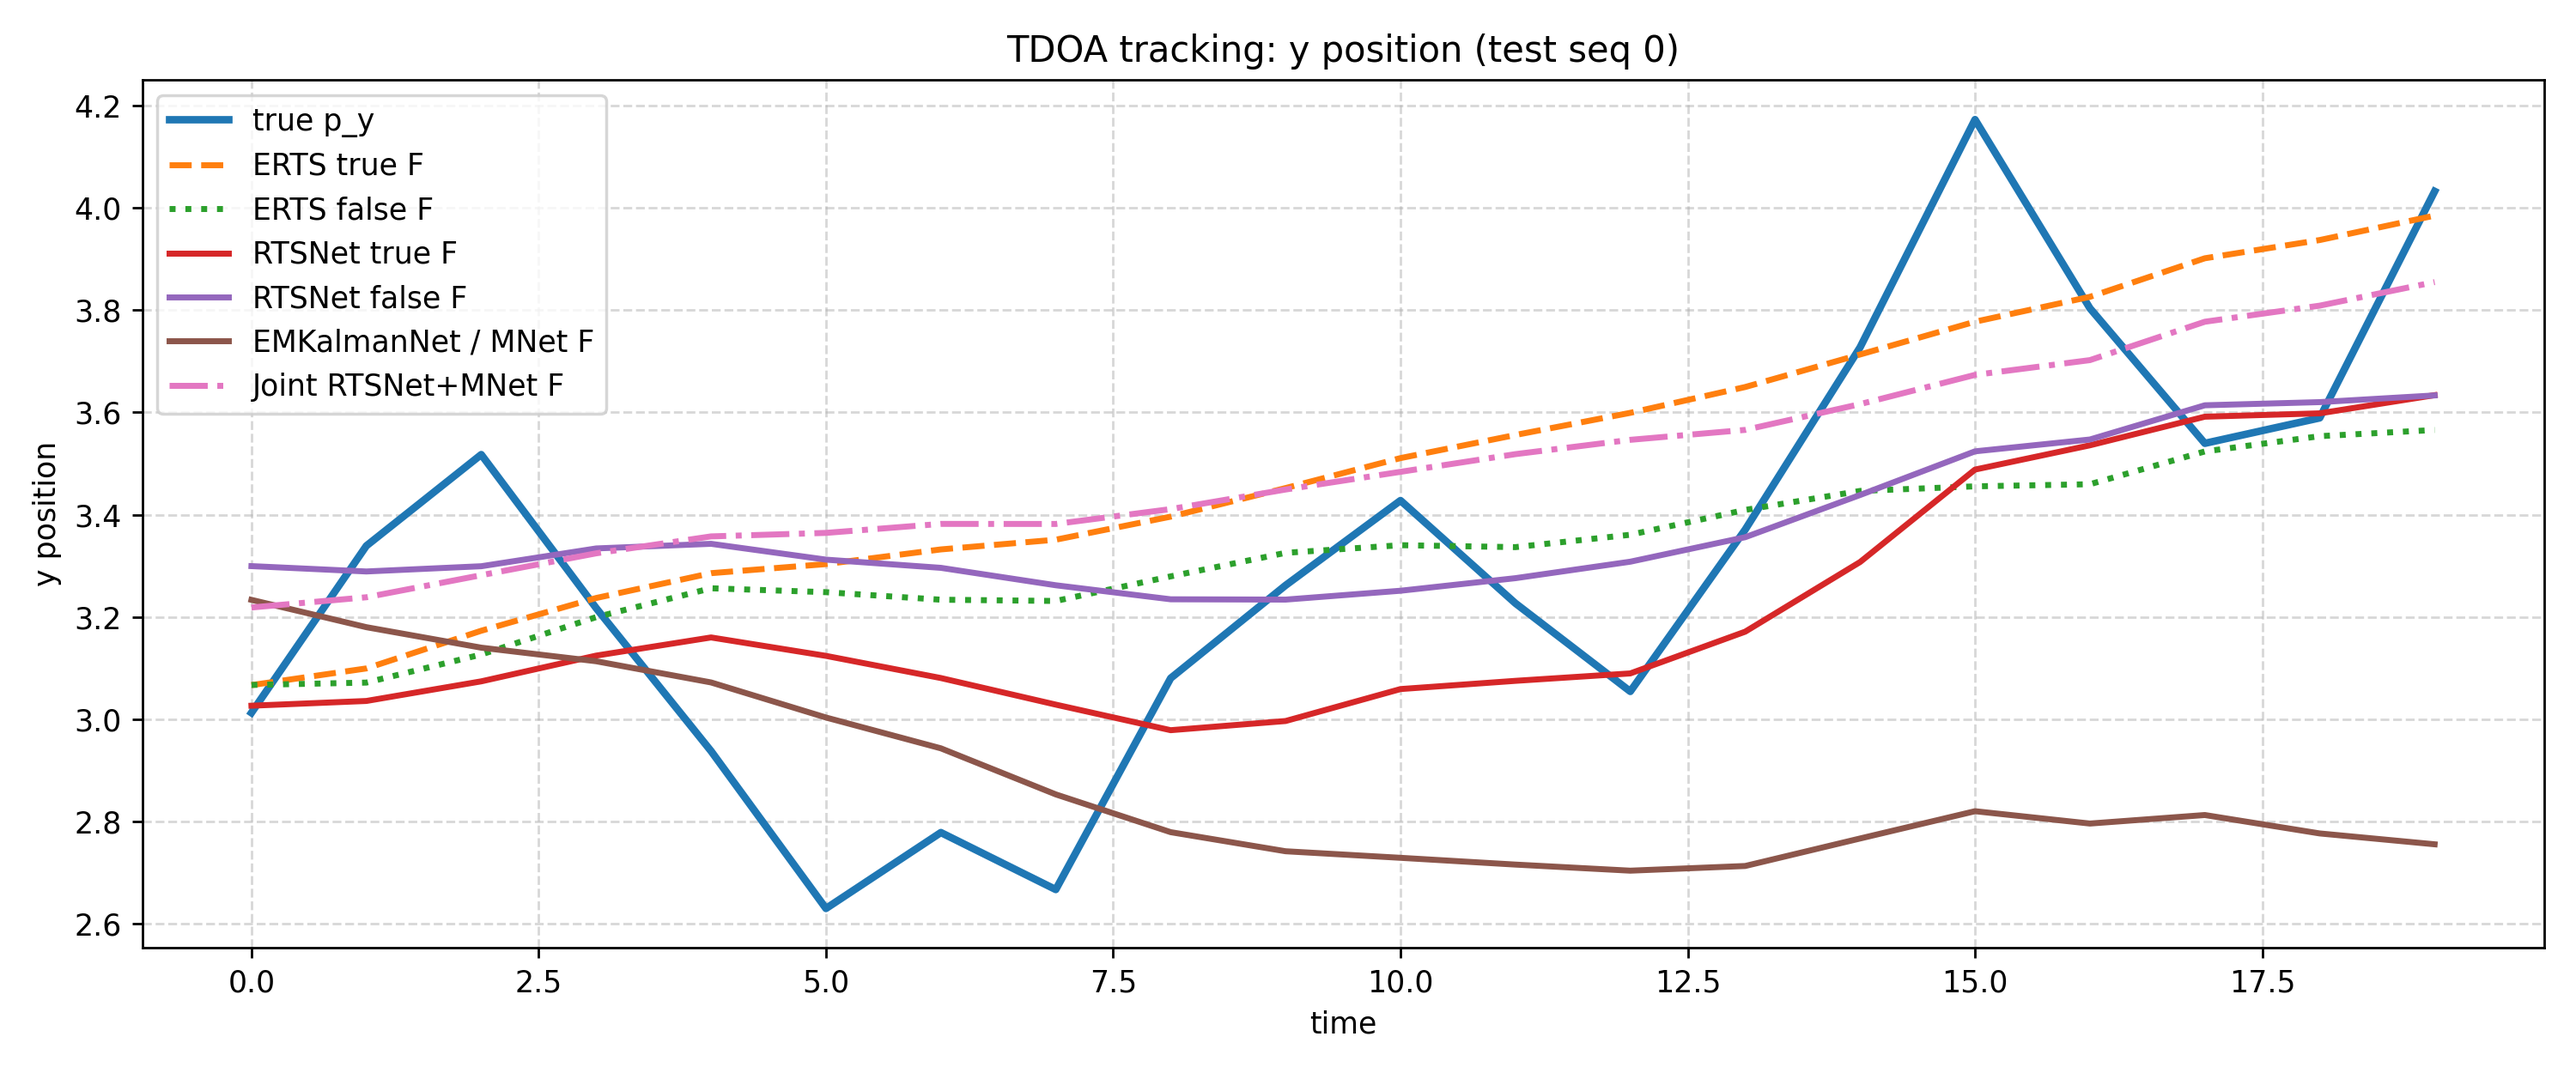
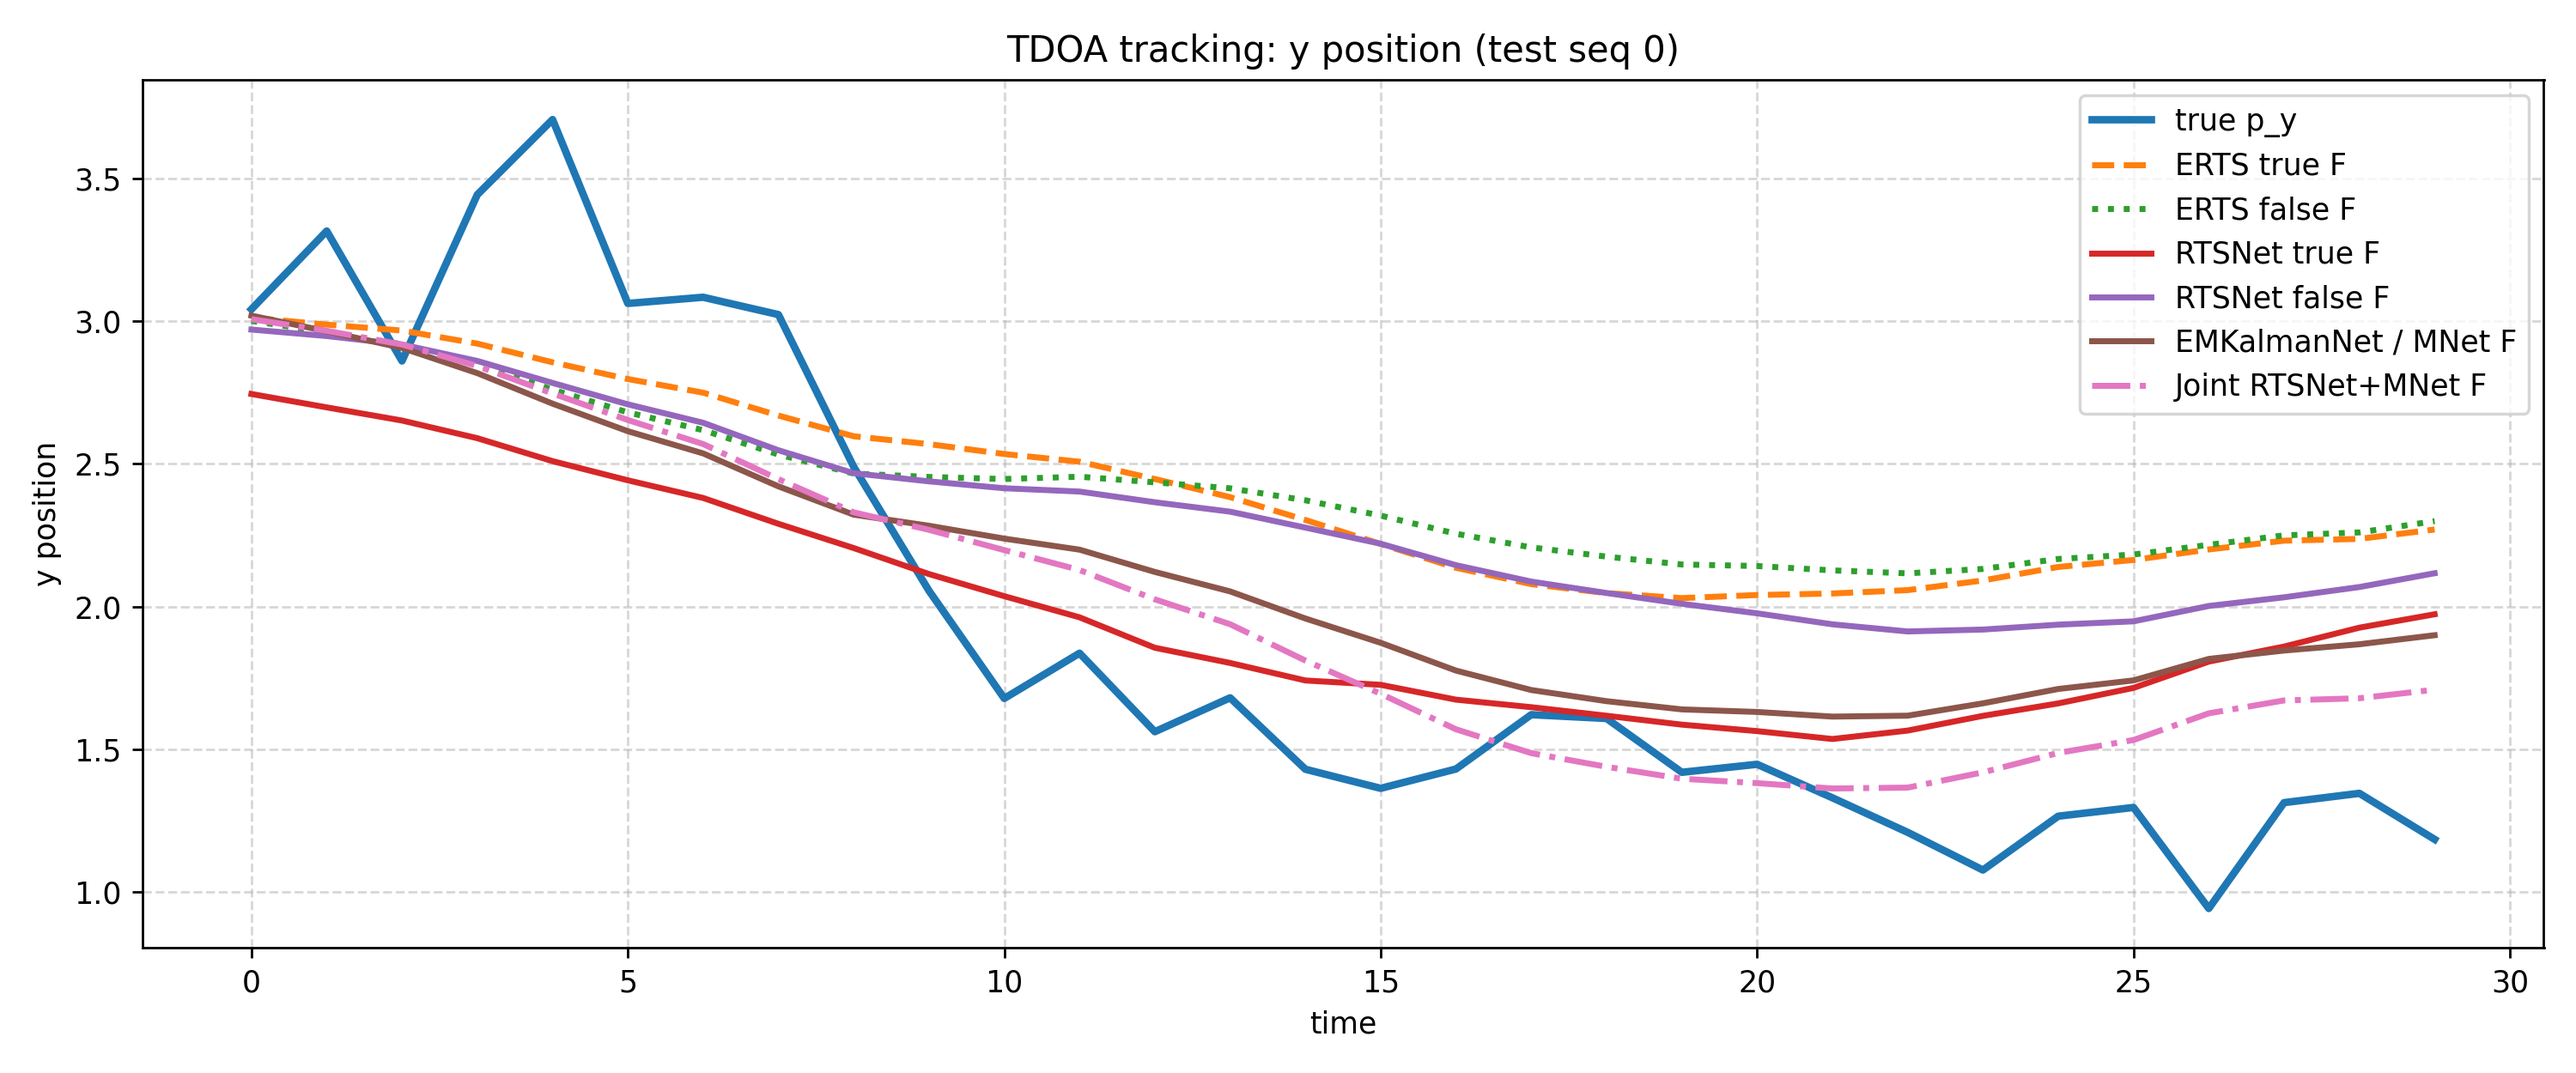
t

diff --git a/microphons_training_1_dataset.py b/microphons_training_1_dataset.py
@@ -67,7 +67,7 @@ r2 = 10   # measurement noise variance (R = r2 * I_n)
 # theta_true:  F per group drawn Uniform(-theta_true/2, +theta_true/2)
 # theta_false: false F = true_theta + Uniform(-theta_false/2, +theta_false/2)
 theta_true  = 0.4   # [rad]
-theta_false = 0.4   # [rad]
+theta_false = 2   # [rad]
 
 Q     = (q2 * Q_structure).to(device) 
 R     = (r2 * R_structure).to(device)
@@ -77,11 +77,11 @@ m2x_0 = m2x_0.to(device)
 ### paths
 save_dir = "RTSNet/tdoa_2d/10/"
 os.makedirs(save_dir, exist_ok=True)
-destination_path_rtsnet_true  = save_dir + "RTSNet_trueF21.pt"
-destination_path_rtsnet_false = save_dir + "RTSNet_falseF2.pt"
-destination_path_M_F = save_dir + "M_step_F_net2.pt"
-destination_path_rtsnet_jointF = save_dir + "RTSNet_falseF_jointF2.pt"
-destination_path_M_F_joint = save_dir + "M_step_F_net_jointF2.pt"
+destination_path_rtsnet_true  = save_dir + "RTSNet_true.pt"
+destination_path_rtsnet_false = save_dir + "RTSNet_false.pt"
+destination_path_M_F = save_dir + "M_step_F_net.pt"
+destination_path_rtsnet_jointF = save_dir + "RTSNet_falseF_joint_arge_f_loss.pt"
+destination_path_M_F_joint = save_dir + "M_step_F_net_joint_large_f_loss.pt"
 
 print("=" * 70)
 print("2D TDOA RTSNet experiment — true-F and false-F models")
@@ -178,25 +178,31 @@ sys_model_false.F_valid_TRUE = F_cv_true
 sys_model_false.F_test_TRUE  = F_test_true
 
 ########################################
-### Analytic baselines (one sequence) ###
+### Analytic baselines (all test seqs) ###
 ########################################
-print("\nRunning analytic baselines on test sequence 0 ...")
+print("\nRunning analytic baselines averaged over all test sequences ...")
+mse_erts_true_sum  = 0.0
+mse_erts_false_sum = 0.0
+for i in range(args.N_T):
+    g        = i // 10
+    states_i = test_target[i]
+    obs_i    = test_input[i]
+    x_et, *_ = run_ekf_erts(obs_i, make_get_F_from_matrix(F_test_true[g]),  Q_in=Q, R_in=R)
+    x_ef, *_ = run_ekf_erts(obs_i, make_get_F_from_matrix(F_test_false[g]), Q_in=Q, R_in=R)
+    mse_erts_true_sum  += loss_fn(x_et, states_i).item()
+    mse_erts_false_sum += loss_fn(x_ef, states_i).item()
+
+mse_erts_true  = mse_erts_true_sum  / args.N_T
+mse_erts_false = mse_erts_false_sum / args.N_T
+
+print(f"  ERTS TRUE-F  MSE (avg): {10 * math.log10(mse_erts_true):.2f} dB")
+print(f"  ERTS FALSE-F MSE (avg): {10 * math.log10(mse_erts_false):.2f} dB")
+
+# keep seq-0 outputs for the plot
 states = test_target[0]
 obs    = test_input[0]
-
-# F_test_true[0]  is the F that generated sequences 0-9
-# F_test_false[0] is the corresponding wrong F for that group
-get_F_true_fn  = make_get_F_from_matrix(F_test_true[0])
-get_F_false_fn = make_get_F_from_matrix(F_test_false[0])
-
-x_erts_true,  *_ = run_ekf_erts(obs, get_F_true_fn,  Q_in=Q, R_in=R)
-x_erts_false, *_ = run_ekf_erts(obs, get_F_false_fn, Q_in=Q, R_in=R)
-
-mse_erts_true  = loss_fn(x_erts_true,  states).item()
-mse_erts_false = loss_fn(x_erts_false, states).item()
-
-print(f"  ERTS TRUE-F  MSE: {10 * math.log10(mse_erts_true):.2f} dB")
-print(f"  ERTS FALSE-F MSE: {10 * math.log10(mse_erts_false):.2f} dB")
+x_erts_true,  *_ = run_ekf_erts(obs, make_get_F_from_matrix(F_test_true[0]),  Q_in=Q, R_in=R)
+x_erts_false, *_ = run_ekf_erts(obs, make_get_F_from_matrix(F_test_false[0]), Q_in=Q, R_in=R)
 
 #######################
 ### RTSNet true-F   ###
@@ -213,12 +219,12 @@ RTSNet_Pipeline_true.setTrainingParams(args)
 print("Number of trainable parameters for RTSNet:",
       sum(p.numel() for p in RTSNet_model_true.parameters() if p.requires_grad))
 
-[MSE_cv_linear_epoch, MSE_cv_dB_epoch,
- MSE_train_linear_epoch, MSE_train_dB_epoch] = RTSNet_Pipeline_true.NNTrain(
-    sys_model_true, cv_input, cv_target, train_input, train_target,
-    destination_path_rtsnet_true,
-    generate_f=True,
-)
+# [MSE_cv_linear_epoch, MSE_cv_dB_epoch,
+#  MSE_train_linear_epoch, MSE_train_dB_epoch] = RTSNet_Pipeline_true.NNTrain(
+#     sys_model_true, cv_input, cv_target, train_input, train_target,
+#     destination_path_rtsnet_true,
+#     generate_f=True,
+# )
 
 [MSE_test_arr_true, MSE_test_avg_true, MSE_test_dB_avg_true,
  rtsnet_out_true, RunTime_true] = RTSNet_Pipeline_true.NNTest(
@@ -241,12 +247,12 @@ RTSNet_Pipeline_false.setTrainingParams(args)
 print("Number of trainable parameters for RTSNet:",
       sum(p.numel() for p in RTSNet_model_false.parameters() if p.requires_grad))
 
-[MSE_cv_linear_epoch, MSE_cv_dB_epoch,
- MSE_train_linear_epoch, MSE_train_dB_epoch] = RTSNet_Pipeline_false.NNTrain(
-    sys_model_false, cv_input, cv_target, train_input, train_target,
-    destination_path_rtsnet_false,load_model_path = destination_path_rtsnet_true,
-    generate_f=True,
-)
+# [MSE_cv_linear_epoch, MSE_cv_dB_epoch,
+#  MSE_train_linear_epoch, MSE_train_dB_epoch] = RTSNet_Pipeline_false.NNTrain(
+#     sys_model_false, cv_input, cv_target, train_input, train_target,
+#     destination_path_rtsnet_false,load_model_path = destination_path_rtsnet_true,
+#     generate_f=True,
+# )
 
 
 
@@ -261,22 +267,30 @@ print("Number of trainable parameters for RTSNet:",
 #############################
 print("\nEMKalmanNet: training MNet to update F")
 
+# DELETE
+diff = sys_model_false.F_train[0] - sys_model_false.F_train_TRUE[0]
+print("F_false[0]:\n", sys_model_false.F_train[0])
+print("F_true[0]:\n",  sys_model_false.F_train_TRUE[0])
+print("||F_false - F_true||^2 =", diff.pow(2).mean().item(),
+      f"({10*math.log10(max(diff.pow(2).mean().item(), 1e-10)):.2f} dB)")
+# DELETE
+
 num_em_iters = 2
 
-RTSNet_Pipeline_false.train_F_mstep_net(
-    sys_model_false,
-    cv_input,
-    cv_target,
-    train_input,
-    train_target,
-    destination_path_M=destination_path_M_F,
-    destination_path_RTS=destination_path_rtsnet_false,
-    load_destination_path_M=None,
-    num_em_iters=num_em_iters,
-    alpha=(0.3, 1.0, 0.85),
-    lambda_F=1e-3,
-    generate_f=True,
-)
+# RTSNet_Pipeline_false.train_F_mstep_net(
+#     sys_model_false,
+#     cv_input,
+#     cv_target,
+#     train_input,
+#     train_target,
+#     destination_path_M=destination_path_M_F,
+#     destination_path_RTS=destination_path_rtsnet_false,
+#     load_destination_path_M=None,
+#     num_em_iters=num_em_iters,
+#     alpha=(0.3, 1.0, 0.85),
+#     lambda_F=1e-3,
+#     generate_f=True,
+# )
 
 [MSE_test_arr_mnet, MSE_test_avg_mnet, MSE_test_dB_avg_mnet,
  rtsnet_out_mnet, RunTime_mnet] = RTSNet_Pipeline_false.test_F_mstep_net(
@@ -306,7 +320,7 @@ RTSNet_Pipeline_false.train_joint_F_mstep_net(
     load_destination_path_RTS=destination_path_rtsnet_false,
     load_destination_path_M=destination_path_M_F,
     num_em_iters=num_em_iters,
-    alpha=(0.3, 1.0, 0.85),
+    alpha=(0.3, 1.0),
     lambda_F=1e-3,
     generate_f=True,
 )
@@ -354,8 +368,8 @@ print("  Saved:", save_dir + "tdoa_rtsnet_y_position.png")
 print("\n" + "=" * 70)
 print("RESULTS SUMMARY")
 print("=" * 70)
-print(f"  ERTS TRUE-F  (seq 0)      : {10 * math.log10(mse_erts_true):.2f} dB")
-print(f"  ERTS FALSE-F (seq 0)      : {10 * math.log10(mse_erts_false):.2f} dB")
+print(f"  ERTS TRUE-F  (avg)        : {10 * math.log10(mse_erts_true):.2f} dB")
+print(f"  ERTS FALSE-F (avg)        : {10 * math.log10(mse_erts_false):.2f} dB")
 print(f"  RTSNet TRUE-F  (avg)      : {MSE_test_dB_avg_true.item():.2f} dB")
 print(f"  RTSNet FALSE-F (avg)      : {MSE_test_dB_avg_false.item():.2f} dB")
 print(f"  EMKalmanNet F-MNet        : {MSE_test_dB_avg_mnet.item():.2f} dB")

diff --git a/Pipelines/Pipeline_mic.py b/Pipelines/Pipeline_mic.py
@@ -343,6 +343,7 @@ class Pipeline_mic:
             for _ in range(self.N_B):
                 n_e = random.randint(0, self.N_E - 1)
                 sample_loss = 0.0
+                x_0 = SysModel.m1x_0.clone().detach()
 
                 for data in range(datasets):
                     y_seq      = train_input[data][n_e]
@@ -355,7 +356,7 @@ class Pipeline_mic:
                         F_k = SysModel.F_train[data][n_e]
 
                     self.model.update_F(F_k)
-                    self.model.InitSequence(SysModel.m1x_0, T)
+                    self.model.InitSequence(x_0, T)
                     self.model.prior_Sigma = SysModel.m2x_0.clone().detach()
                     self.model.init_hidden()
 
@@ -372,6 +373,7 @@ class Pipeline_mic:
                         x_smo[:, t] = self.model(None, x_fwd[:, t], x_fwd[:, t + 1], x_smo[:, t + 2])
 
                     sample_loss += torch.mean((x_smo - x_true_seq) ** 2)
+                    x_0 = x_smo[:, T - 1].detach()
 
                 batch_loss += sample_loss / datasets
 
@@ -386,6 +388,7 @@ class Pipeline_mic:
             with torch.no_grad():
                 for j in range(self.N_CV):
                     sample_loss_cv = 0.0
+                    x_0_cv = SysModel.m1x_0.clone().detach()
                     for data in range(datasets):
                         y_cv      = cv_input[data][j]
                         x_true_cv = cv_target[data][j]
@@ -397,7 +400,7 @@ class Pipeline_mic:
                             F_k_cv = SysModel.F_valid[data][j]
 
                         self.model.update_F(F_k_cv)
-                        self.model.InitSequence(SysModel.m1x_0, T_cv)
+                        self.model.InitSequence(x_0_cv, T_cv)
                         self.model.prior_Sigma = SysModel.m2x_0.clone().detach()
                         self.model.init_hidden()
 
@@ -414,6 +417,7 @@ class Pipeline_mic:
                             x_s_cv[:, t] = self.model(None, x_f_cv[:, t], x_f_cv[:, t + 1], x_s_cv[:, t + 2])
 
                         sample_loss_cv += torch.mean((x_s_cv - x_true_cv) ** 2).item()
+                        x_0_cv = x_s_cv[:, T_cv - 1].detach()
 
                     cv_loss_sum += sample_loss_cv / datasets
 
@@ -580,7 +584,7 @@ class Pipeline_mic:
                         weight = alpha[1]
                     else:
                         weight = alpha[2]
-                    total_loss_seq += weight * (0.1 * f_loss + 4*x_loss + reg)
+                    total_loss_seq += weight * (f_loss + reg)
 
                 total_loss_batch += total_loss_seq
 
@@ -874,7 +878,7 @@ class Pipeline_mic:
                         weight = alpha[1]
                     else:
                         weight = alpha[2]
-                    total_loss_seq += weight * (0.1 * f_loss + 4*x_loss + reg)
+                    total_loss_seq += weight * (10 * f_loss + 0.5*x_loss + reg)
 
                 total_loss_batch += total_loss_seq
 
@@ -1010,7 +1014,7 @@ class Pipeline_mic:
                             weight_cv = alpha[1]
                         else:
                             weight_cv = alpha[2]
-                        total_loss_seq_cv += weight_cv * (0.1 * f_loss_cv.item() + 4*x_loss_cv.item()
+                        total_loss_seq_cv += weight_cv * (10 * f_loss_cv.item() + 0.5*x_loss_cv.item()
                                                           +  reg_cv.item())
 
                     total_loss_cv += total_loss_seq_cv

diff --git a/microphons_training_3_dataset.py b/microphons_training_3_dataset.py
@@ -48,25 +48,25 @@ args = config.general_settings()
 args.N_E = 1000
 args.N_CV = 100
 args.N_T = 200
-args.T = 20
-args.T_test = 20
+args.T = 30
+args.T_test = 30
 ### training parameters
 args.n_steps = 400
 args.n_batch = 30
-args.lr = 1e-3
+args.lr = 1e-4
 args.wd = 1e-3
 
 T      = args.T
 T_test = args.T_test
 
 ### noise levels
-q2 = 1e-4
-r2 = 1e-3
+q2 = 0.1
+r2 = 10
 
 ### cycle: number of datasets
 cycle = 5
 # Max theta per dataset [rad] — each group of 10 sequences draws theta ~ Uniform(-max/2, +max/2)
-theta_changed_list = [0.2, 0.2, 0.2,0.2,0.2]
+theta_changed_list = [0.3, 0.3, 0.3,0.3,0.3]
 assert len(theta_changed_list) == cycle
 
 ### false F mismatch
@@ -129,13 +129,24 @@ all_F_train_false = []
 all_F_cv_false    = []
 all_F_test_false  = []
 
+# Carry state between datasets: last state of last trajectory and last group theta
+carry_x_train  = None;  carry_theta_train  = 0.0
+carry_x_cv     = None;  carry_theta_cv     = 0.0
+carry_x_test   = None;  carry_theta_test   = 0.0
+
 for k in range(cycle):
     theta_changed = theta_changed_list[k]
-    print(f"  Dataset {k}: theta ~ Uniform(-{theta_changed/2:.3f}, +{theta_changed/2:.3f}) rad per group")
+    print(f"  Dataset {k}: theta ~ theta_prev + Uniform(-{theta_changed/2:.3f}, +{theta_changed/2:.3f}) rad per group")
+    print(f"            theta_base: train={carry_theta_train:.4f}  cv={carry_theta_cv:.4f}  test={carry_theta_test:.4f}")
 
-    ti, tt, th_tr, F_tr_t = generate_dataset_random_theta(args.N_E,  T,      theta_changed, Q, R)
-    ci, ct, th_cv, F_cv_t = generate_dataset_random_theta(args.N_CV, T,      theta_changed, Q, R)
-    xi, xt, th_te, F_te_t = generate_dataset_random_theta(args.N_T,  T_test, theta_changed, Q, R)
+    ti, tt, th_tr, F_tr_t = generate_dataset_random_theta(args.N_E,  T,      theta_changed, Q, R, x_init=carry_x_train, theta_base=carry_theta_train)
+    ci, ct, th_cv, F_cv_t = generate_dataset_random_theta(args.N_CV, T,      theta_changed, Q, R, x_init=carry_x_cv,    theta_base=carry_theta_cv)
+    xi, xt, th_te, F_te_t = generate_dataset_random_theta(args.N_T,  T_test, theta_changed, Q, R, x_init=carry_x_test,  theta_base=carry_theta_test)
+
+    # Update carry: last state of last trajectory, last group's theta
+    carry_x_train  = tt[-1, :, -1];  carry_theta_train  = th_tr[-1]
+    carry_x_cv     = ct[-1, :, -1];  carry_theta_cv     = th_cv[-1]
+    carry_x_test   = xt[-1, :, -1];  carry_theta_test   = th_te[-1]
 
     F_tr_f = generate_false_F_list(th_tr, theta_false)
     F_cv_f = generate_false_F_list(th_cv, theta_false)

diff --git a/Simulations/TDOA_2D/parameters.py b/Simulations/TDOA_2D/parameters.py
@@ -144,10 +144,10 @@ def generate_single_traj(
     thetas_rad: list,
     Q_gen: torch.Tensor = None,
     R_gen: torch.Tensor = None,
+    x_init: torch.Tensor = None,
 ) -> tuple:
     """
     One trajectory of length T with equal-size blocks.
-    All sequences start from the same fixed m1x_0 (no randomness in init).
 
     Returns
     -------
@@ -167,7 +167,7 @@ def generate_single_traj(
 
     states = torch.zeros(m, T, device=device)
     obs    = torch.zeros(n,   T, device=device)
-    x      = m1x_0.reshape(-1).clone()   # [4]
+    x      = x_init.reshape(-1).clone() if x_init is not None else m1x_0.reshape(-1).clone()  # [4]
 
     for t in range(T):
         k   = min(t // block_size, n_blocks - 1)
@@ -255,11 +255,14 @@ def make_get_F_from_matrix(F_matrix: torch.Tensor):
 
 def generate_dataset_random_theta(N: int, T: int, theta_true_max: float,
                                   Q_gen: torch.Tensor = None,
-                                  R_gen: torch.Tensor = None):
+                                  R_gen: torch.Tensor = None,
+                                  x_init: torch.Tensor = None,
+                                  theta_base: float = 0.0):
     """
     Generate N trajectories in groups of 10.
-    Each group uses ONE random theta ~ Uniform(-theta_true_max/2, +theta_true_max/2)
+    Each group uses ONE random theta ~ theta_base + Uniform(-theta_true_max/2, +theta_true_max/2)
     as a constant F for all T time steps of those 10 sequences.
+    All trajectories start from x_init (defaults to m1x_0 if None).
     N must be a multiple of 10.
 
     Returns
@@ -282,15 +285,14 @@ def generate_dataset_random_theta(N: int, T: int, theta_true_max: float,
     F_list     = []
 
     for g in range(n_groups):
-        theta = (_random.random() - 0.5) * theta_true_max   # Uniform(-max/2, +max/2)
+        theta = theta_base + (_random.random() - 0.5) * theta_true_max   # theta_base + Uniform(-max/2, +max/2)
         theta_list.append(theta)
         F_list.append(make_F_block(theta))
         for s in range(10):
             idx = g * 10 + s
-            # generate_single_traj with [theta] → single block → constant F
-            states, obs = generate_single_traj(T, [theta], Q_gen, R_gen)
+            states, obs = generate_single_traj(T, [theta], Q_gen, R_gen, x_init=x_init)
             targets[idx] = states
-            inputs[idx]  = obs  
+            inputs[idx]  = obs
 
     return inputs, targets, theta_list, F_list
 
